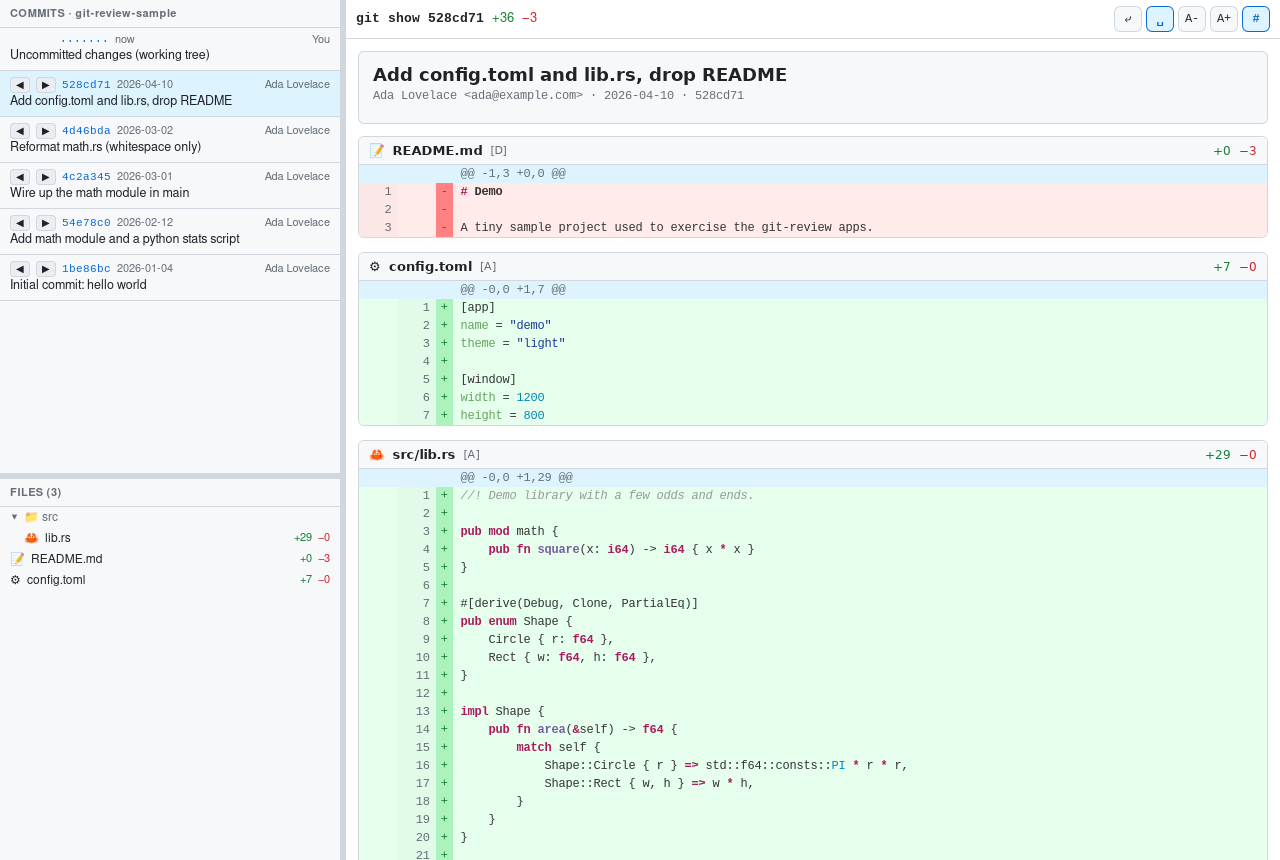
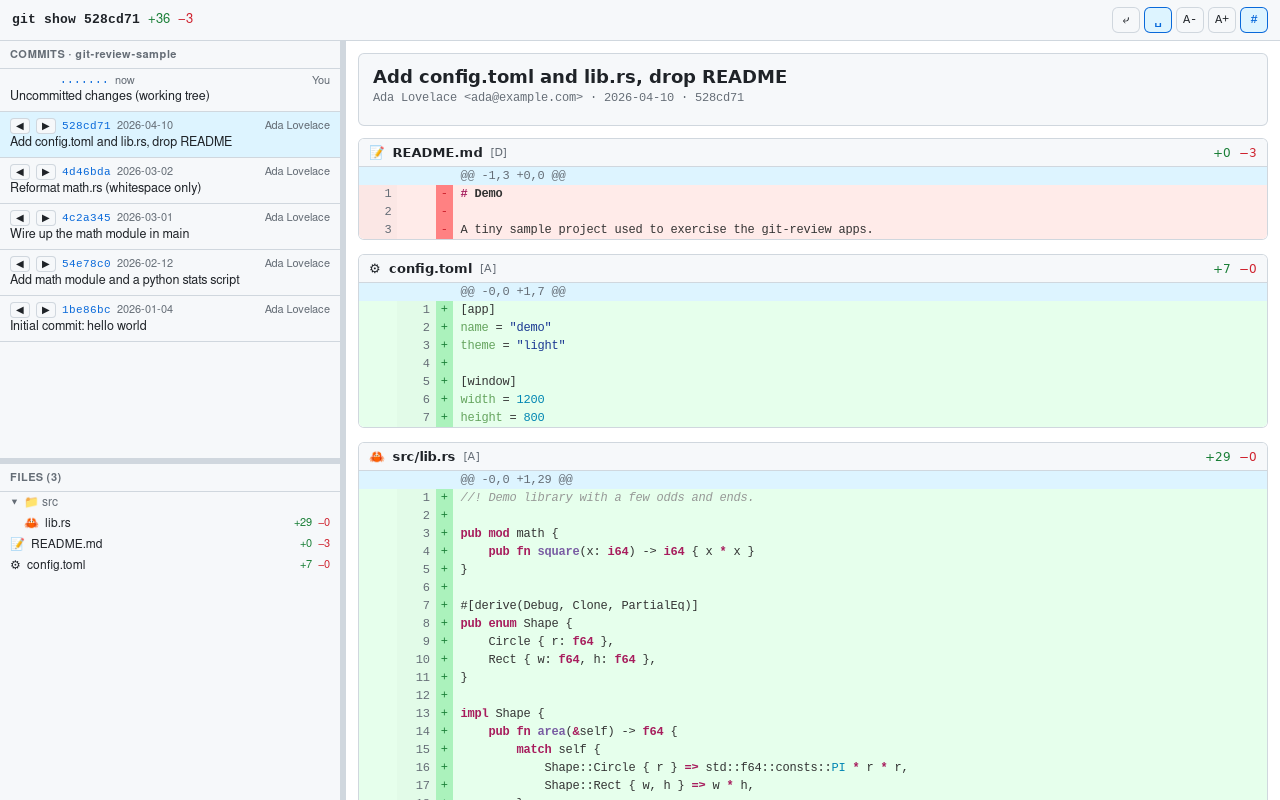
Polish tauri: full-width top toolbar, hierarchical tree, dark/light CSS, size build
CSS grid restructured so the toolbar is a full-width top row above [side|main];
file tree collapses single-child dir chains GitHub-style; prefers-color-scheme
dark palette added; size-opt release. Binary 5.46 MB (gzip 2.70 MB) + 26 KB ui.

diff --git a/tauri/ui/style.css b/tauri/ui/style.css
@@ -1,7 +1,10 @@
-/* GitHub-familiar light theme — see SPEC.md "Visual style". */
+/* GitHub-familiar themes — see SPEC.md "Visual style".
+   Light by default; switches to dark via prefers-color-scheme. */
 :root {
+  color-scheme: light dark;
   --bg: #ffffff;
   --panel: #f6f8fa;
+  --toolbar-bg: #f6f8fa;
   --border: #d0d7de;
   --text: #1f2328;
   --muted: #656d76;
@@ -14,9 +17,36 @@
   --add-fg: #1a7f37;
   --del-fg: #cf222e;
   --hunk-bg: #ddf4ff;
+  --btn-bg: #f6f8fa;
+  --btn-hover: #eef1f4;
+  --hover: rgba(9, 105, 218, 0.06);
   --font-size: 12px;
   --mono: ui-monospace, SFMono-Regular, "SF Mono", Menlo, Consolas,
     "Liberation Mono", monospace;
+}
+
+/* GitHub dark palette, applied when the OS/desktop is in dark mode. */
+@media (prefers-color-scheme: dark) {
+  :root {
+    --bg: #0d1117;
+    --panel: #161b22;
+    --toolbar-bg: #161b22;
+    --border: #30363d;
+    --text: #e6edf3;
+    --muted: #8b949e;
+    --accent: #2f81f7;
+    --sel: #1f6feb;
+    --add-bg: #12261e;
+    --add-mark: #2ea043;
+    --del-bg: #25171c;
+    --del-mark: #f85149;
+    --add-fg: #3fb950;
+    --del-fg: #f85149;
+    --hunk-bg: #0f2747;
+    --btn-bg: #21262d;
+    --btn-hover: #30363d;
+    --hover: rgba(177, 186, 196, 0.12);
+  }
 }
 
 * {
@@ -46,8 +76,16 @@ body {
 
 #app {
   display: flex;
+  flex-direction: column;
   height: 100vh;
   width: 100vw;
+}
+
+/* bottom row below the toolbar: side panel | main */
+#body {
+  flex: 1;
+  min-height: 0;
+  display: flex;
 }
 
 /* --- left side panel ----------------------------------------------------- */
@@ -124,7 +162,7 @@ body {
   cursor: pointer;
 }
 .commit:hover {
-  background: rgba(9, 105, 218, 0.06);
+  background: var(--hover);
 }
 .commit.current {
   background: var(--sel);
@@ -143,13 +181,13 @@ body {
   padding: 2px 5px;
   border: 1px solid var(--border);
   border-radius: 4px;
-  background: #eaeef2;
+  background: var(--btn-bg);
   color: var(--text);
   cursor: pointer;
   flex: none;
 }
 .endpoint:hover {
-  background: #dde3ea;
+  background: var(--btn-hover);
 }
 .endpoint.active {
   background: var(--accent);
@@ -201,7 +239,7 @@ body {
   white-space: nowrap;
 }
 .tree-dir:hover {
-  background: rgba(9, 105, 218, 0.06);
+  background: var(--hover);
 }
 .tree-dir .caret {
   width: 10px;
@@ -218,7 +256,7 @@ body {
   font-size: 12px;
 }
 .tree-file:hover {
-  background: rgba(9, 105, 218, 0.06);
+  background: var(--hover);
 }
 .tree-file .icon {
   flex: none;
@@ -240,6 +278,18 @@ body {
   display: none;
 }
 
+/* --- toolbar (full-width, top of window) --------------------------------- */
+#toolbar {
+  display: flex;
+  align-items: center;
+  gap: 10px;
+  padding: 7px 12px;
+  border-bottom: 1px solid var(--border);
+  background: var(--toolbar-bg);
+  flex: none;
+  width: 100%;
+}
+
 /* --- main view ----------------------------------------------------------- */
 #main {
   flex: 1;
@@ -248,16 +298,6 @@ body {
   flex-direction: column;
   background: var(--bg);
   overflow: hidden;
-}
-
-#toolbar {
-  display: flex;
-  align-items: center;
-  gap: 10px;
-  padding: 6px 10px;
-  border-bottom: 1px solid var(--border);
-  background: var(--bg);
-  flex: none;
 }
 
 #summary {
@@ -288,12 +328,16 @@ body {
   padding: 0 6px;
   border: 1px solid var(--border);
   border-radius: 6px;
-  background: #f6f8fa;
+  background: var(--btn-bg);
   color: var(--text);
   cursor: pointer;
+  box-shadow: inset 0 1px 0 rgba(255, 255, 255, 0.04);
 }
 .tool:hover {
-  background: #eef1f4;
+  background: var(--btn-hover);
+}
+.tool:active {
+  box-shadow: inset 0 1px 3px rgba(0, 0, 0, 0.25);
 }
 .tool.active {
   background: var(--sel);

diff --git a/tauri/ui/index.html b/tauri/ui/index.html
@@ -8,40 +8,45 @@
   </head>
   <body>
     <div id="app">
-      <!-- Left side panel: commits (top) + files (bottom), resizable splits -->
-      <aside id="side">
-        <section id="commits-pane">
-          <div class="pane-head" id="commits-head">COMMITS</div>
-          <div class="pane-body" id="commit-list"></div>
-        </section>
-        <div class="vsplit" id="side-vsplit" title="Drag to resize"></div>
-        <section id="files-pane">
-          <div class="pane-head" id="files-head">FILES</div>
-          <div class="pane-body" id="file-tree"></div>
-        </section>
-      </aside>
-
-      <!-- Horizontal divider between side panel and main view -->
-      <div class="hsplit" id="side-hsplit" title="Drag to resize"></div>
-
-      <!-- Main view: toolbar (pinned) + scrollable diff -->
-      <main id="main">
-        <div id="toolbar">
-          <div id="summary">
-            <span id="summary-text" class="mono"></span>
-            <span id="added" class="add"></span>
-            <span id="removed" class="del"></span>
-          </div>
-          <div id="tools">
-            <button class="tool" id="t-wrap" title="Word wrap">⤶</button>
-            <button class="tool" id="t-space" title="Show space changes">␣</button>
-            <button class="tool" id="t-fdec" title="Decrease font size">A-</button>
-            <button class="tool" id="t-finc" title="Increase font size">A+</button>
-            <button class="tool" id="t-lines" title="Show line numbers">#</button>
-          </div>
+      <!-- Full-width toolbar pinned at the very top, above panel and diff. -->
+      <div id="toolbar">
+        <div id="summary">
+          <span id="summary-text" class="mono"></span>
+          <span id="added" class="add"></span>
+          <span id="removed" class="del"></span>
         </div>
-        <div id="diff" class="diff"></div>
-      </main>
+        <div id="tools">
+          <button class="tool" id="t-wrap" title="Word wrap">⤶</button>
+          <button class="tool" id="t-space" title="Show space changes">␣</button>
+          <button class="tool" id="t-fdec" title="Decrease font size">A-</button>
+          <button class="tool" id="t-finc" title="Increase font size">A+</button>
+          <button class="tool" id="t-lines" title="Show line numbers">#</button>
+        </div>
+      </div>
+
+      <!-- Bottom row: side panel | main diff. -->
+      <div id="body">
+        <!-- Left side panel: commits (top) + files (bottom), resizable splits -->
+        <aside id="side">
+          <section id="commits-pane">
+            <div class="pane-head" id="commits-head">COMMITS</div>
+            <div class="pane-body" id="commit-list"></div>
+          </section>
+          <div class="vsplit" id="side-vsplit" title="Drag to resize"></div>
+          <section id="files-pane">
+            <div class="pane-head" id="files-head">FILES</div>
+            <div class="pane-body" id="file-tree"></div>
+          </section>
+        </aside>
+
+        <!-- Horizontal divider between side panel and main view -->
+        <div class="hsplit" id="side-hsplit" title="Drag to resize"></div>
+
+        <!-- Main view: scrollable diff -->
+        <main id="main">
+          <div id="diff" class="diff"></div>
+        </main>
+      </div>
     </div>
 
     <script src="app.js"></script>

diff --git a/tauri/ui/app.js b/tauri/ui/app.js
@@ -221,8 +221,21 @@ function renderFileTree() {
 
   function walk(node, prefix, depth, parentCollapsed) {
     // directories first
-    for (const [dname, dnode] of node.dirs) {
-      const full = prefix + dname + "/";
+    for (let [dname, dnode] of node.dirs) {
+      // GitHub-style: collapse single-child directory chains (a/b/c) into one node,
+      // but stop merging as soon as a directory has files or branches.
+      let label = dname;
+      let full = prefix + dname + "/";
+      while (
+        dnode.files.length === 0 &&
+        dnode.dirs.size === 1
+      ) {
+        const [childName, childNode] = dnode.dirs.entries().next().value;
+        label += "/" + childName;
+        full += childName + "/";
+        dnode = childNode;
+      }
+
       const collapsed = collapseState.has(full);
       const dir = document.createElement("div");
       dir.className = "tree-dir";
@@ -232,7 +245,7 @@ function renderFileTree() {
       caret.className = "caret";
       caret.textContent = collapsed ? "▶" : "▼";
       dir.appendChild(caret);
-      dir.appendChild(document.createTextNode("📁 " + dname));
+      dir.appendChild(document.createTextNode("📁 " + label));
       dir.onclick = () => {
         if (collapsed) collapseState.delete(full);
         else collapseState.add(full);
